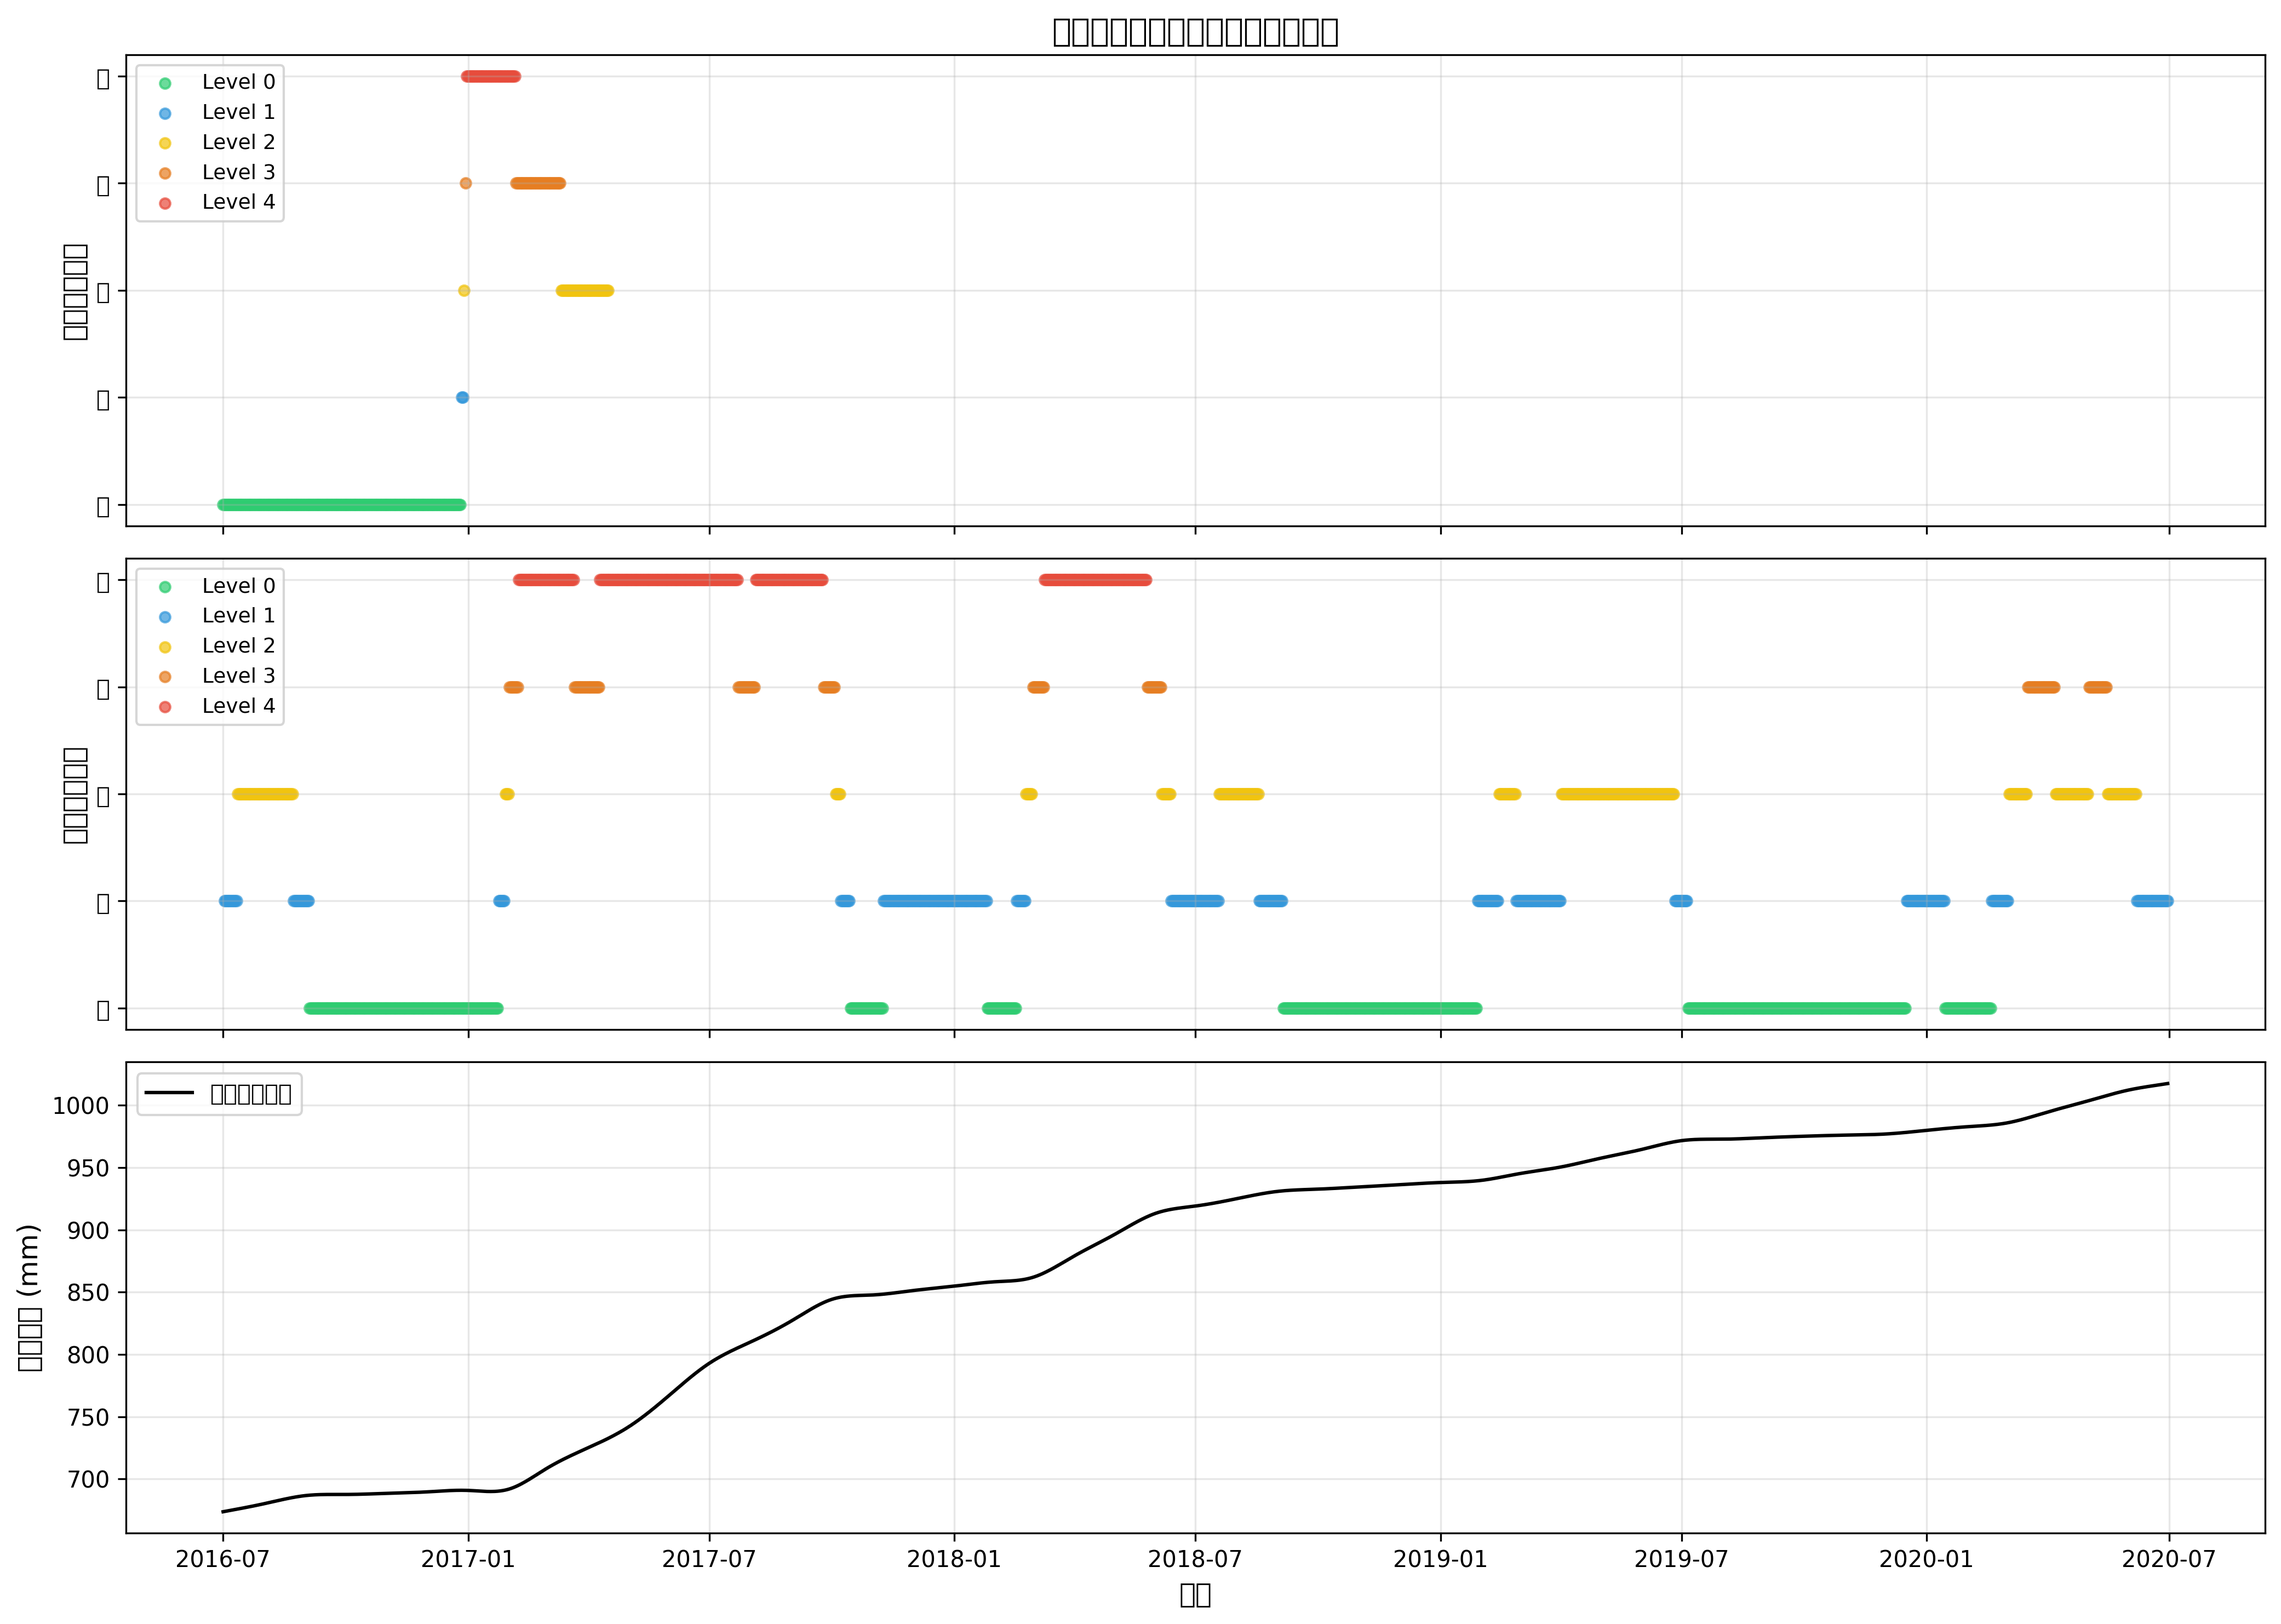
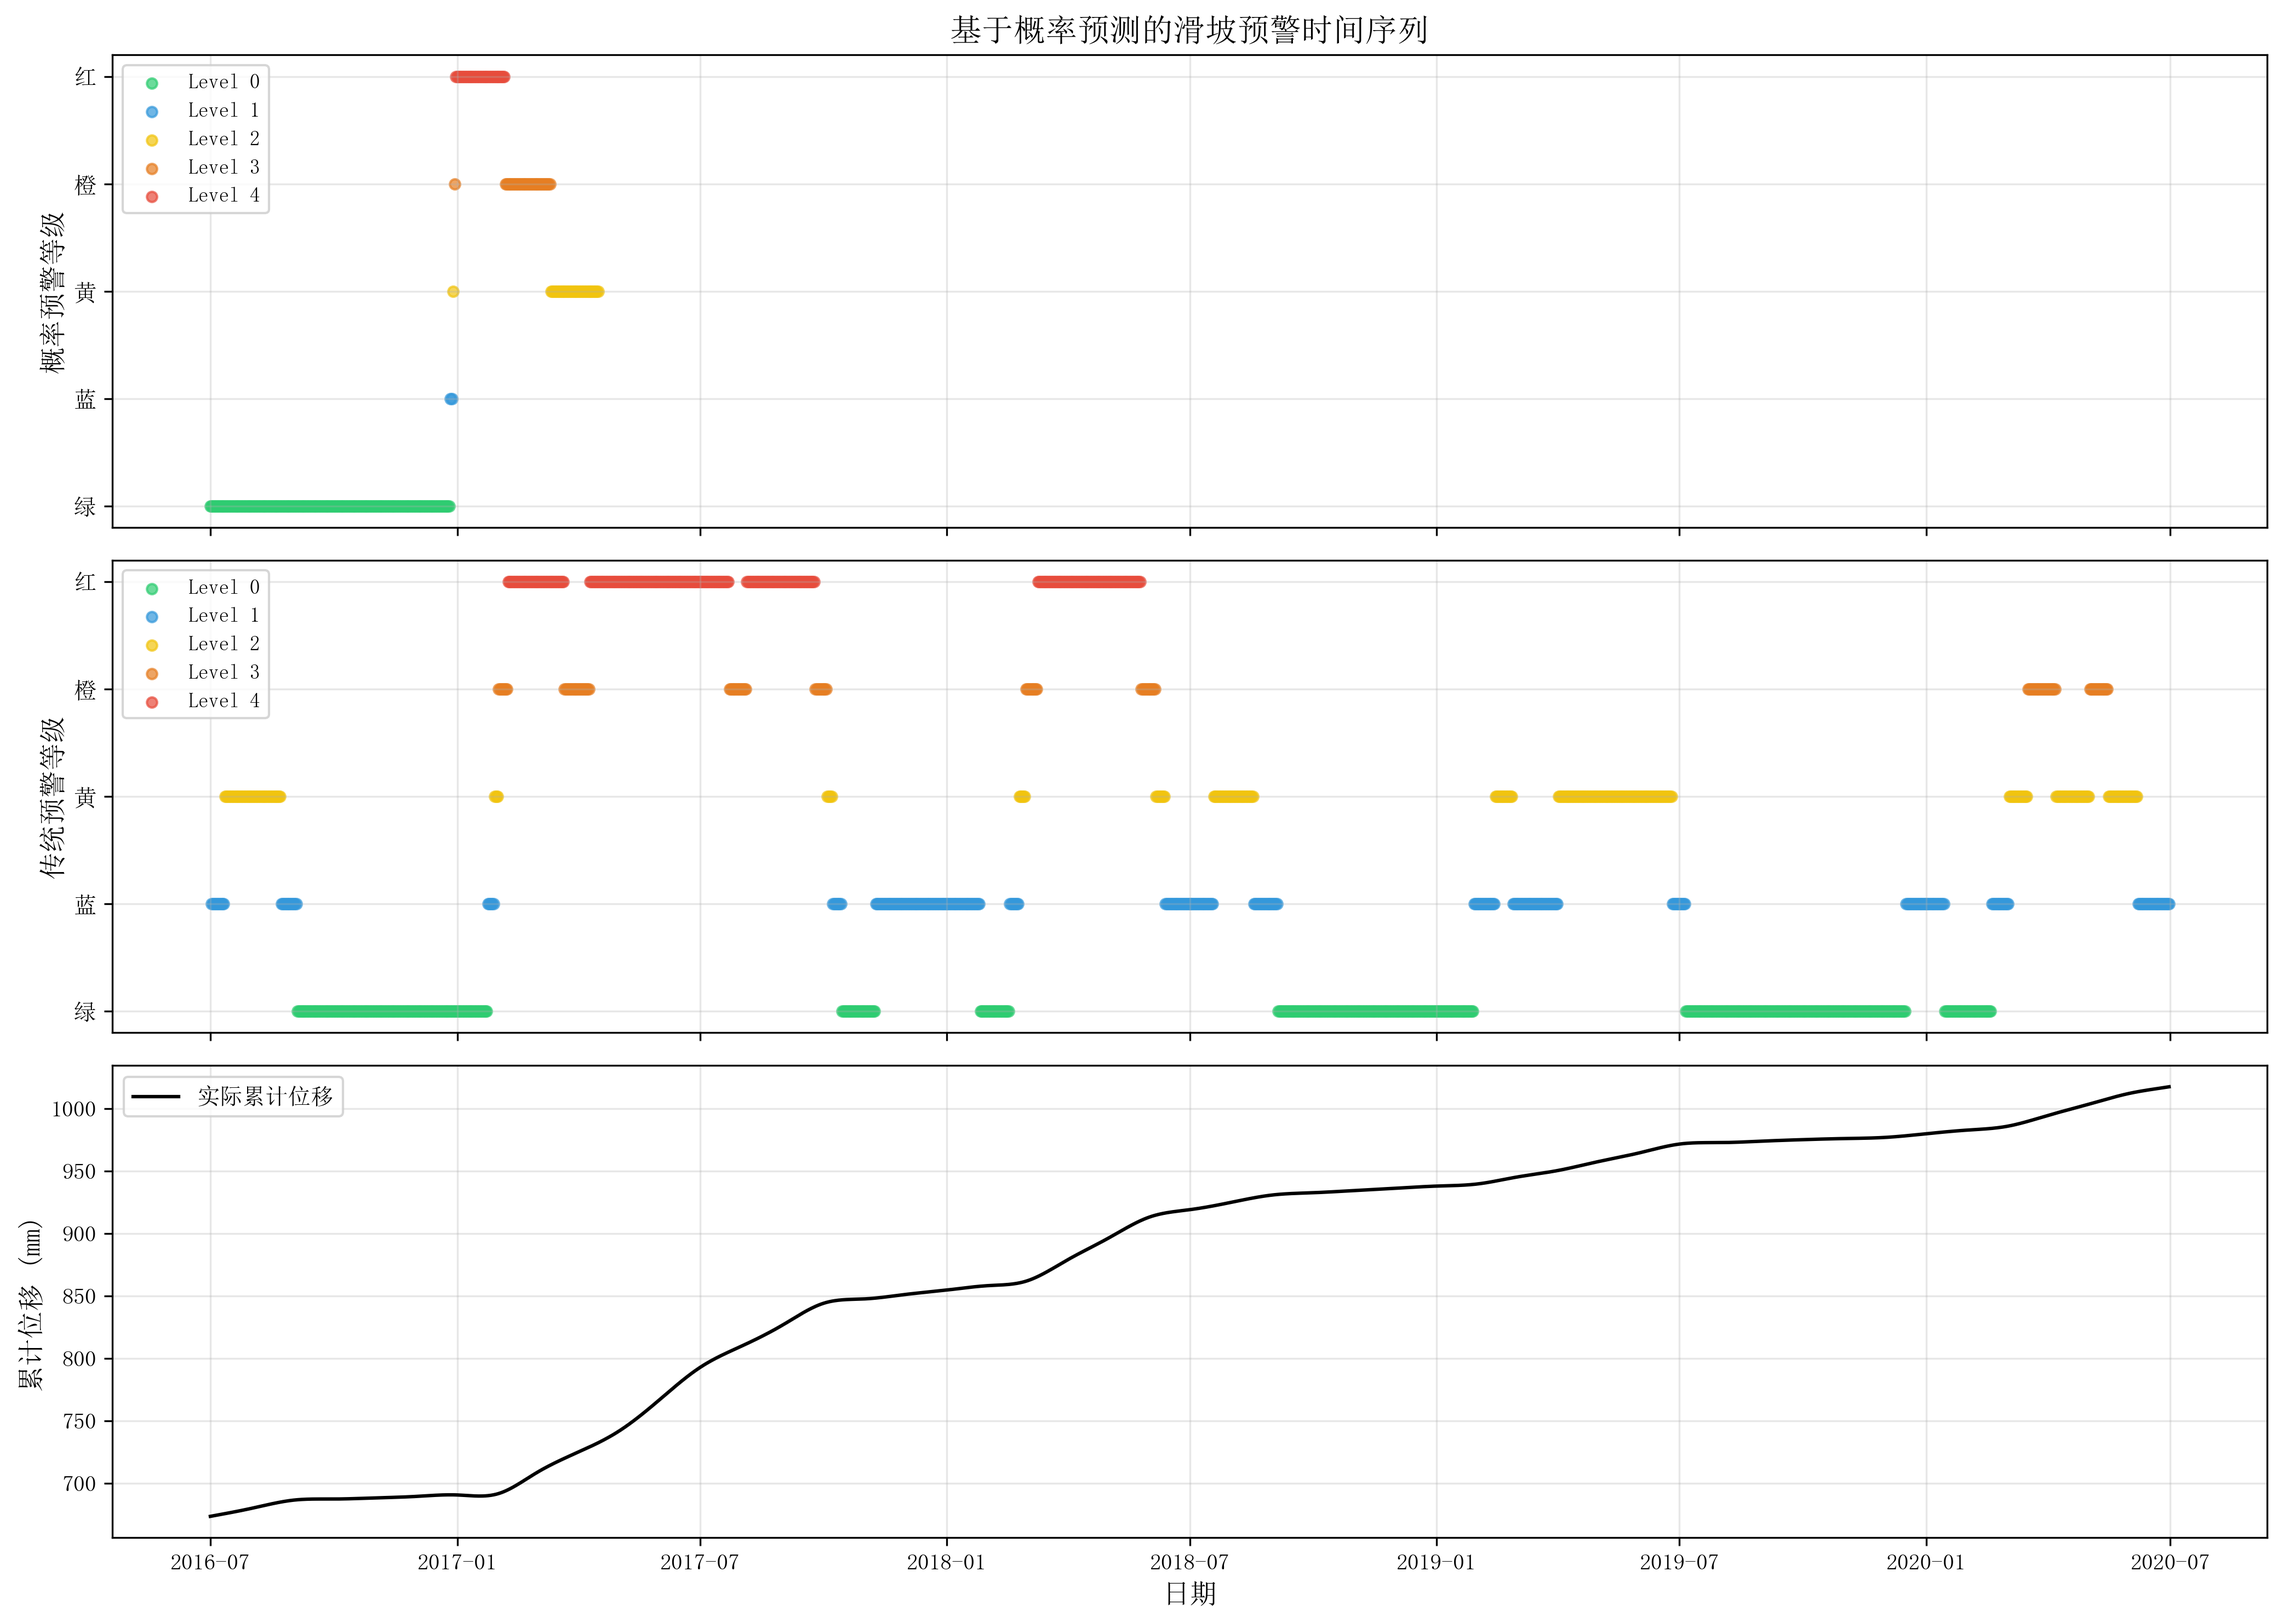
修正所有章节字体顺序：SimSun优先，Times New Roman作为fallback
问题：
- 之前配置['Times New Roman', 'SimSun']导致中文字符尝试用Times New Roman渲染
- Times New Roman不包含中文字形，产生大量警告

解决方案：
- 调整字体顺序为['SimSun', 'Times New Roman']
- SimSun优先处理中文字符
- Times New Roman作为fallback处理英文字符

修改文件：
- chapter2: shap_analysis.py, lgbm_shap_warning.py
- chapter3: generate_thesis_figures.py
- chapter4: 06_plot_warning_timeseries.py, 07_plot_detailed_periods.py

重新生成图表：
- chapter4所有图表已重新生成
- 无字体警告
- 中文使用SimSun，英文使用Times New Roman

diff --git a/code/chapter3/scripts/generate_thesis_figures.py b/code/chapter3/scripts/generate_thesis_figures.py
@@ -8,8 +8,9 @@ import matplotlib.pyplot as plt
 import matplotlib.dates as mdates
 from datetime import datetime, timedelta
 
-# 设置字体：中文使用SimSun，英文使用Times New Roman（不允许降级）
-plt.rcParams['font.serif'] = ['Times New Roman', 'SimSun']
+# 设置字体：中文使用SimSun，英文使用Times New Roman
+# 注意：SimSun在前，这样中文会用SimSun，英文会fallback到Times New Roman
+plt.rcParams['font.serif'] = ['SimSun', 'Times New Roman']
 plt.rcParams['font.family'] = 'serif'
 plt.rcParams['axes.unicode_minus'] = False
 plt.rcParams['font.size'] = 10

diff --git a/code/chapter4/src/06_plot_warning_timeseries.py b/code/chapter4/src/06_plot_warning_timeseries.py
@@ -8,8 +8,9 @@ import matplotlib.pyplot as plt
 import numpy as np
 from pathlib import Path
 
-# 设置字体：中文使用SimSun，英文使用Times New Roman（不允许降级）
-plt.rcParams['font.serif'] = ['Times New Roman', 'SimSun']
+# 设置字体：中文使用SimSun，英文使用Times New Roman
+# 注意：SimSun在前，这样中文会用SimSun，英文会fallback到Times New Roman
+plt.rcParams['font.serif'] = ['SimSun', 'Times New Roman']
 plt.rcParams['font.family'] = 'serif'
 plt.rcParams['axes.unicode_minus'] = False
 plt.rcParams['font.size'] = 10

diff --git a/code/chapter4/src/07_plot_detailed_periods.py b/code/chapter4/src/07_plot_detailed_periods.py
@@ -9,8 +9,9 @@ import numpy as np
 from pathlib import Path
 import json
 
-# 设置字体：中文使用SimSun，英文使用Times New Roman（不允许降级）
-plt.rcParams['font.serif'] = ['Times New Roman', 'SimSun']
+# 设置字体：中文使用SimSun，英文使用Times New Roman
+# 注意：SimSun在前，这样中文会用SimSun，英文会fallback到Times New Roman
+plt.rcParams['font.serif'] = ['SimSun', 'Times New Roman']
 plt.rcParams['font.family'] = 'serif'
 plt.rcParams['axes.unicode_minus'] = False
 plt.rcParams['font.size'] = 10

diff --git a/code/chapter2/shap_analysis.py b/code/chapter2/shap_analysis.py
@@ -95,7 +95,7 @@ def _sort_by_lag(shap_values: np.ndarray, feature_names: List[str], max_display:
 
 def _setup_matplotlib() -> None:
     """配置中文字体与负号显示"""
-    plt.rcParams['font.serif'] = ['Times New Roman', 'SimSun']
+    plt.rcParams['font.serif'] = ['SimSun', 'Times New Roman']
     plt.rcParams['font.family'] = 'serif'
     plt.rcParams['axes.unicode_minus'] = False
     plt.rcParams.update({

diff --git a/code/chapter2/lgbm_shap_warning.py b/code/chapter2/lgbm_shap_warning.py
@@ -29,7 +29,7 @@ from read_monitoring_data import load_monitoring_data
 from model_training import cross_validate_models
 from shap_analysis import analyze_shap_reg, analyze_shap_cls
 
-plt.rcParams['font.serif'] = ['Times New Roman', 'SimSun']
+plt.rcParams['font.serif'] = ['SimSun', 'Times New Roman']
 plt.rcParams['font.family'] = 'serif'
 plt.rcParams['axes.unicode_minus'] = False
 
